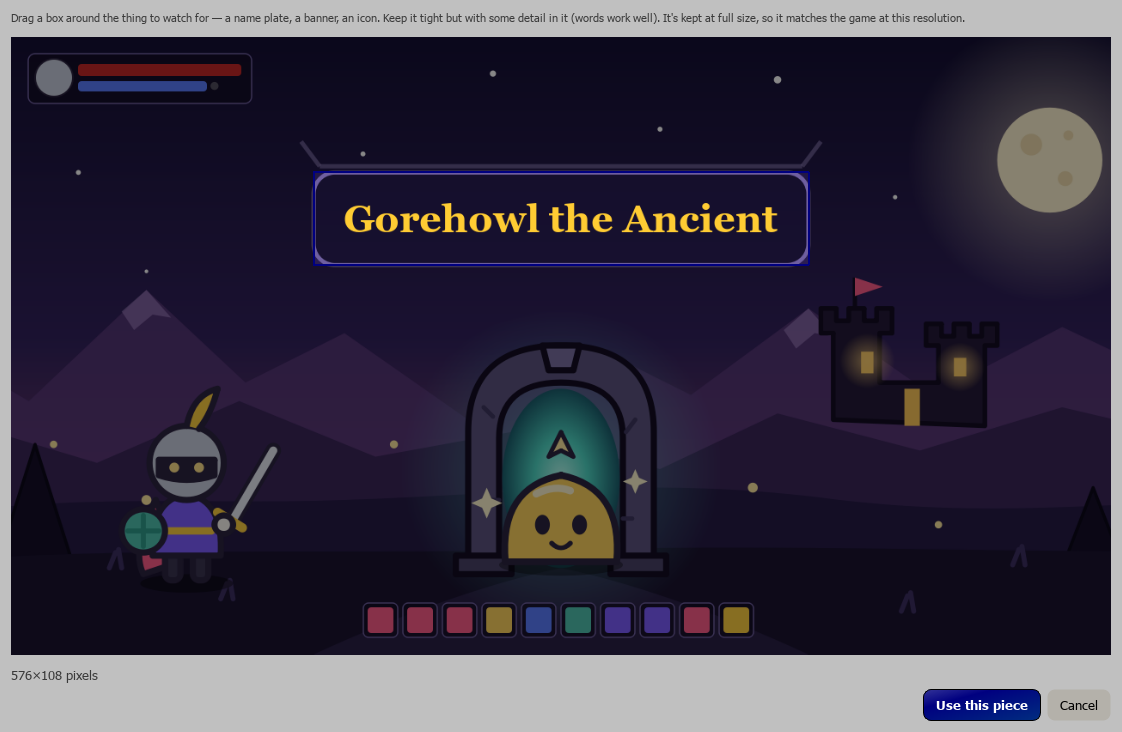
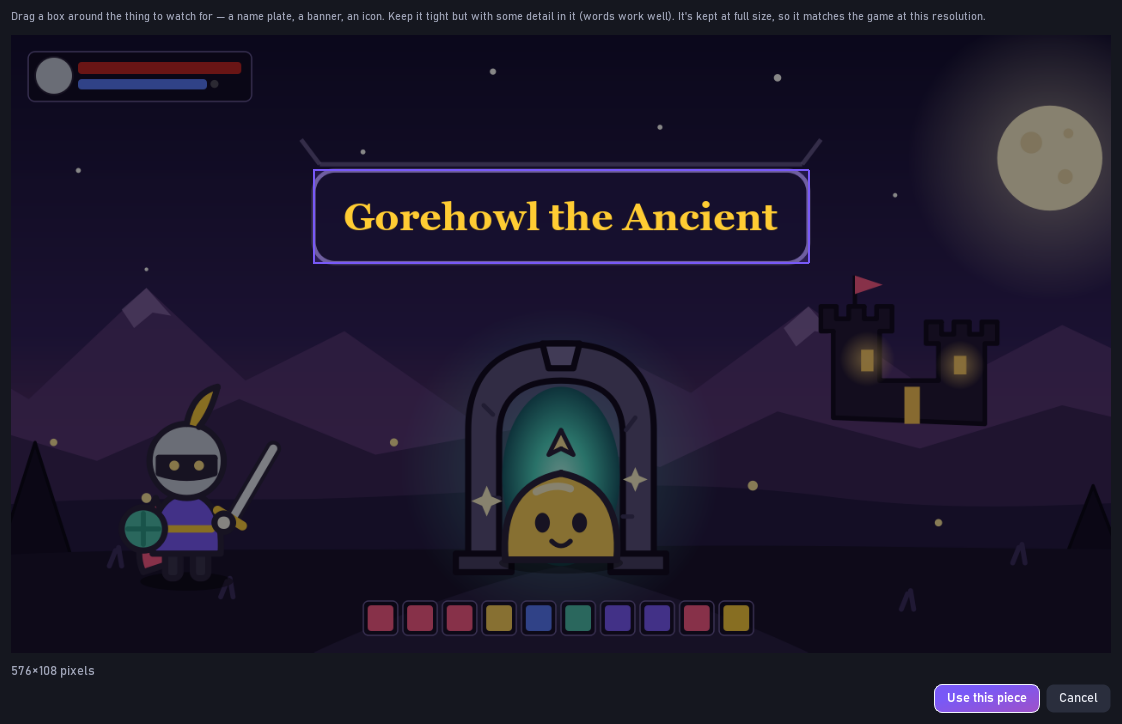
Screenshots: the Dark theme, like Onion Board's pictures
Retro 98 is out: the README, the website and Onion Board's copies all use Dark.

diff --git a/docs/index.html b/docs/index.html
@@ -7,7 +7,7 @@
 <meta name="description" content="Free Windows app that plays a sound when something shows up in your game: a rare spawn, a queue pop, a whisper, YOU DIED. It watches the game's own window, even while you're alt-tabbed away, and never touches the game.">
 <meta property="og:title" content="Onion Watch: a sound when your game needs you">
 <meta property="og:description" content="Plays a sound when a rare spawn, a queue pop or a whisper shows up in your game, even while you're alt-tabbed. Free, Windows, it only looks.">
-<meta property="og:image" content="https://onion-alien.github.io/onion-watch/art/social-preview.png?v=c5a1bb83">
+<meta property="og:image" content="https://onion-alien.github.io/onion-watch/art/social-preview.png?v=2a2f9994">
 <meta property="og:type" content="website">
 <meta name="twitter:card" content="summary_large_image">
 <link rel="canonical" href="https://onion-alien.github.io/onion-watch/">
@@ -70,7 +70,7 @@
       <a href="https://www.virustotal.com/gui/file/08de1d443d172d34d1102800208f2cb0123223dac3adba19784f68c7414afb87">VirusTotal: 67 of 67 clean</a> ·
       <a href="https://github.com/Onion-Alien/onion-watch/releases/latest">what's new</a></p>
     <!-- /release -->
-    <img class="hero" src="screenshots/main.png?v=644ac332" width="900" height="820"
+    <img class="hero" src="screenshots/main.png?v=45db04c9" width="900" height="820"
          alt="Onion Watch watching a game, one trigger open">
   </header>
 
@@ -86,10 +86,10 @@
 
   <h2>A closer look</h2>
   <div class="grid shots">
-    <figure><img src="screenshots/window-picker.png?v=3174b328" alt="Picking the windows to watch" loading="lazy"><figcaption>Pick the windows, or every copy of a game</figcaption></figure>
-    <figure><img src="screenshots/cut-picture.png?v=79c88495" alt="Cutting a picture out of the game" loading="lazy"><figcaption>Cut out the thing to watch for</figcaption></figure>
-    <figure><img src="screenshots/health-bar.png?v=9fdf7216" alt="Picking a health bar and its colour" loading="lazy"><figcaption>Or point it at a health bar</figcaption></figure>
-    <figure><img src="screenshots/categories.png?v=32a9775a" alt="Categories and profiles" loading="lazy"><figcaption>Hundreds of triggers in categories and profiles</figcaption></figure>
+    <figure><img src="screenshots/window-picker.png?v=e2c6c3fb" alt="Picking the windows to watch" loading="lazy"><figcaption>Pick the windows, or every copy of a game</figcaption></figure>
+    <figure><img src="screenshots/cut-picture.png?v=564416b4" alt="Cutting a picture out of the game" loading="lazy"><figcaption>Cut out the thing to watch for</figcaption></figure>
+    <figure><img src="screenshots/health-bar.png?v=1d8ffe6a" alt="Picking a health bar and its colour" loading="lazy"><figcaption>Or point it at a health bar</figcaption></figure>
+    <figure><img src="screenshots/categories.png?v=3c697ad8" alt="Categories and profiles" loading="lazy"><figcaption>Hundreds of triggers in categories and profiles</figcaption></figure>
   </div>
 
   <h2>Get started</h2>

diff --git a/scripts/screenshots.py b/scripts/screenshots.py
@@ -3,7 +3,7 @@ shown, no screen or window is captured, nothing is heard.
 
     python scripts/screenshots.py [out_dir] [--theme NAME]   (default: docs/screenshots)
 
-Onion Board's website uses copies in its Hoot theme: --theme Hoot.
+Onion Board's website uses copies of the same (Dark) pictures.
 
 The "game" is game_scene.svg (the website demo's scene) with a made-up HUD on top, the
 windows in the picker are invented, and the app folder is a throwaway one.
@@ -30,7 +30,7 @@ from PySide6.QtSvg import QSvgRenderer  # noqa: E402
 from PySide6.QtWidgets import QApplication  # noqa: E402
 
 
-THEME = "Retro 98"   # the README and website pictures all use this theme
+THEME = "Dark"   # the README and both websites use this theme, like Onion Board's pictures
 
 
 class _Mute:

diff --git a/scripts/docs.py b/scripts/docs.py
@@ -4,7 +4,7 @@
     .venv\\Scripts\\python scripts\\docs.py --vt <sha256> 68/68 # after a release's VirusTotal scan
     .venv\\Scripts\\python scripts\\docs.py --no-shots         # only the text
 
-Runs screenshots.py (offscreen, made-up data, the Retro 98 theme) and make_art.py
+Runs screenshots.py (offscreen, made-up data, the Dark theme) and make_art.py
 (Hoot, the avatar and docs/art/social-preview.png, which is built from main.png:
 upload it in the repo's Settings -> Social preview when it changes; GitHub has no
 API for it). The version comes from onionwatch/__init__.py; the VirusTotal scan is

diff --git a/README.md b/README.md
@@ -19,13 +19,13 @@ Version **0.9.6** · Windows 10 / 11 · free, no account, no internet needed ·
 [VirusTotal: 67 of 67 clean](https://www.virustotal.com/gui/file/08de1d443d172d34d1102800208f2cb0123223dac3adba19784f68c7414afb87) · [what's new](https://github.com/Onion-Alien/onion-watch/releases/latest)
 <!-- /release -->
 
-![Onion Watch watching a game, one trigger open](docs/screenshots/main.png?v=644ac332)
+![Onion Watch watching a game, one trigger open](docs/screenshots/main.png?v=45db04c9)
 
 | | |
 |---|---|
-| ![The window picker](docs/screenshots/window-picker.png?v=3174b328) | ![Cutting a picture from a window](docs/screenshots/cut-picture.png?v=79c88495) |
+| ![The window picker](docs/screenshots/window-picker.png?v=e2c6c3fb) | ![Cutting a picture from a window](docs/screenshots/cut-picture.png?v=564416b4) |
 | Pick the windows, or every copy of a game | Cut the thing to watch for straight out of the game |
-| ![Picking a health bar and its colour](docs/screenshots/health-bar.png?v=9fdf7216) | ![Categories and profiles](docs/screenshots/categories.png?v=32a9775a) |
+| ![Picking a health bar and its colour](docs/screenshots/health-bar.png?v=1d8ffe6a) | ![Categories and profiles](docs/screenshots/categories.png?v=3c697ad8) |
 | Or point it at a health bar | Hundreds of triggers in categories and profiles |
 
 ## It only looks

diff --git a/docs/CODE.md b/docs/CODE.md
@@ -15,7 +15,7 @@ python -m venv .venv
 Checks: `.venv\Scripts\ruff check .` and `.venv\Scripts\python -m pytest`. The
 tests run Qt offscreen with stand-in captures and a silent audio stream, so they
 never read your screen or make a sound. `scripts\docs.py` rebuilds the README's and website's pictures (`screenshots.py`, from
-made-up data in the Retro 98 theme, and `make_art.py`: Hoot, the avatar and the social
+made-up data in the Dark theme, and `make_art.py`: Hoot, the avatar and the social
 preview in `docs\art\`) and their version line.
 
 Settings, the log, your pictures and your sound files live in
